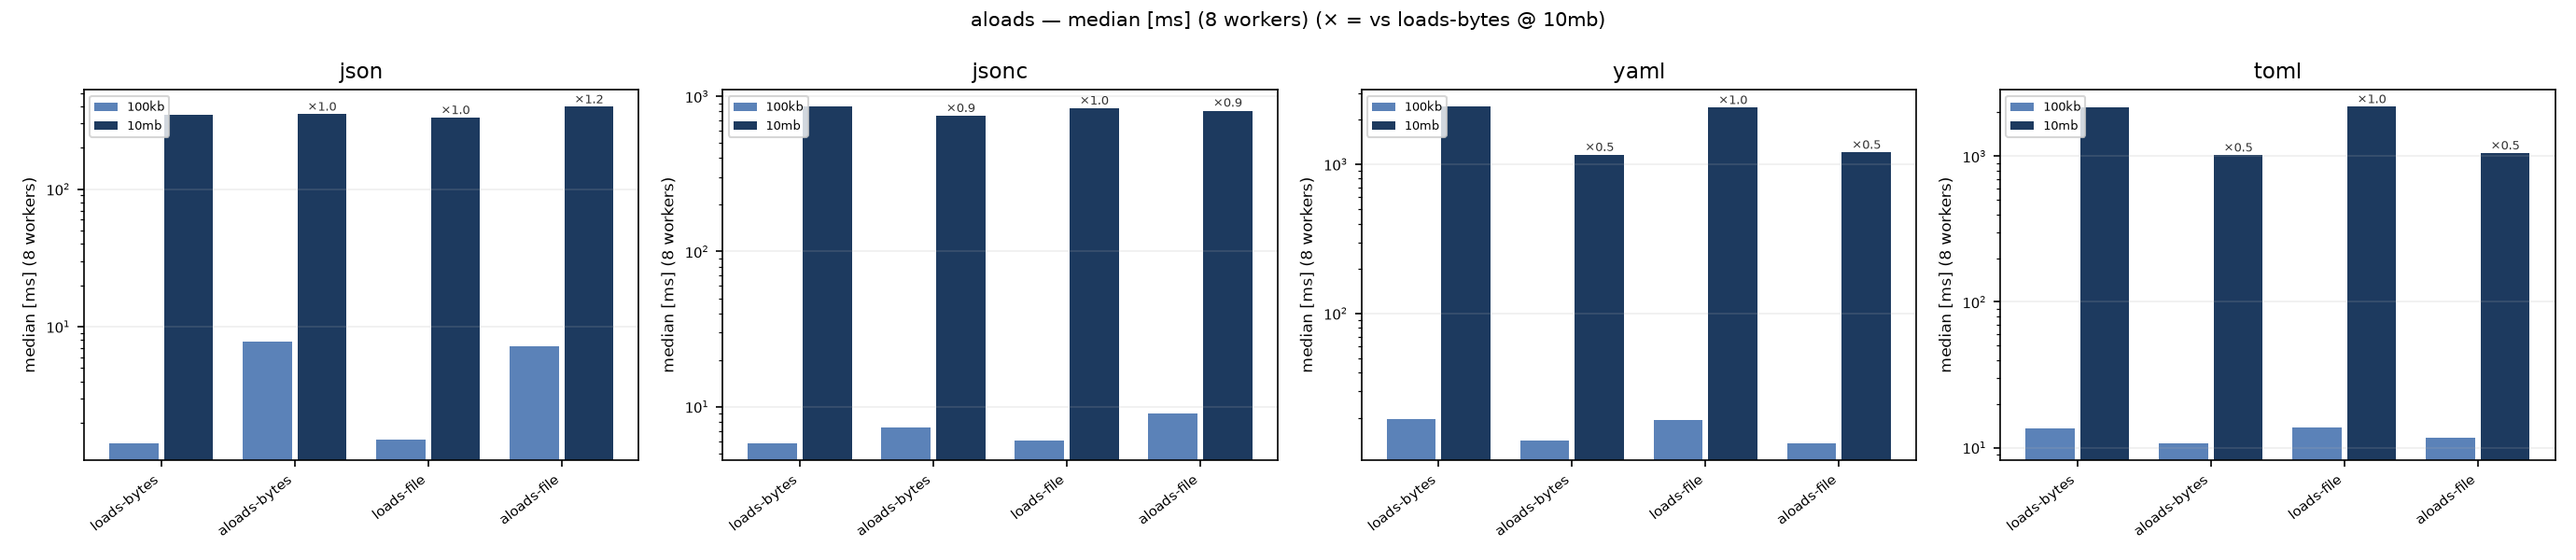
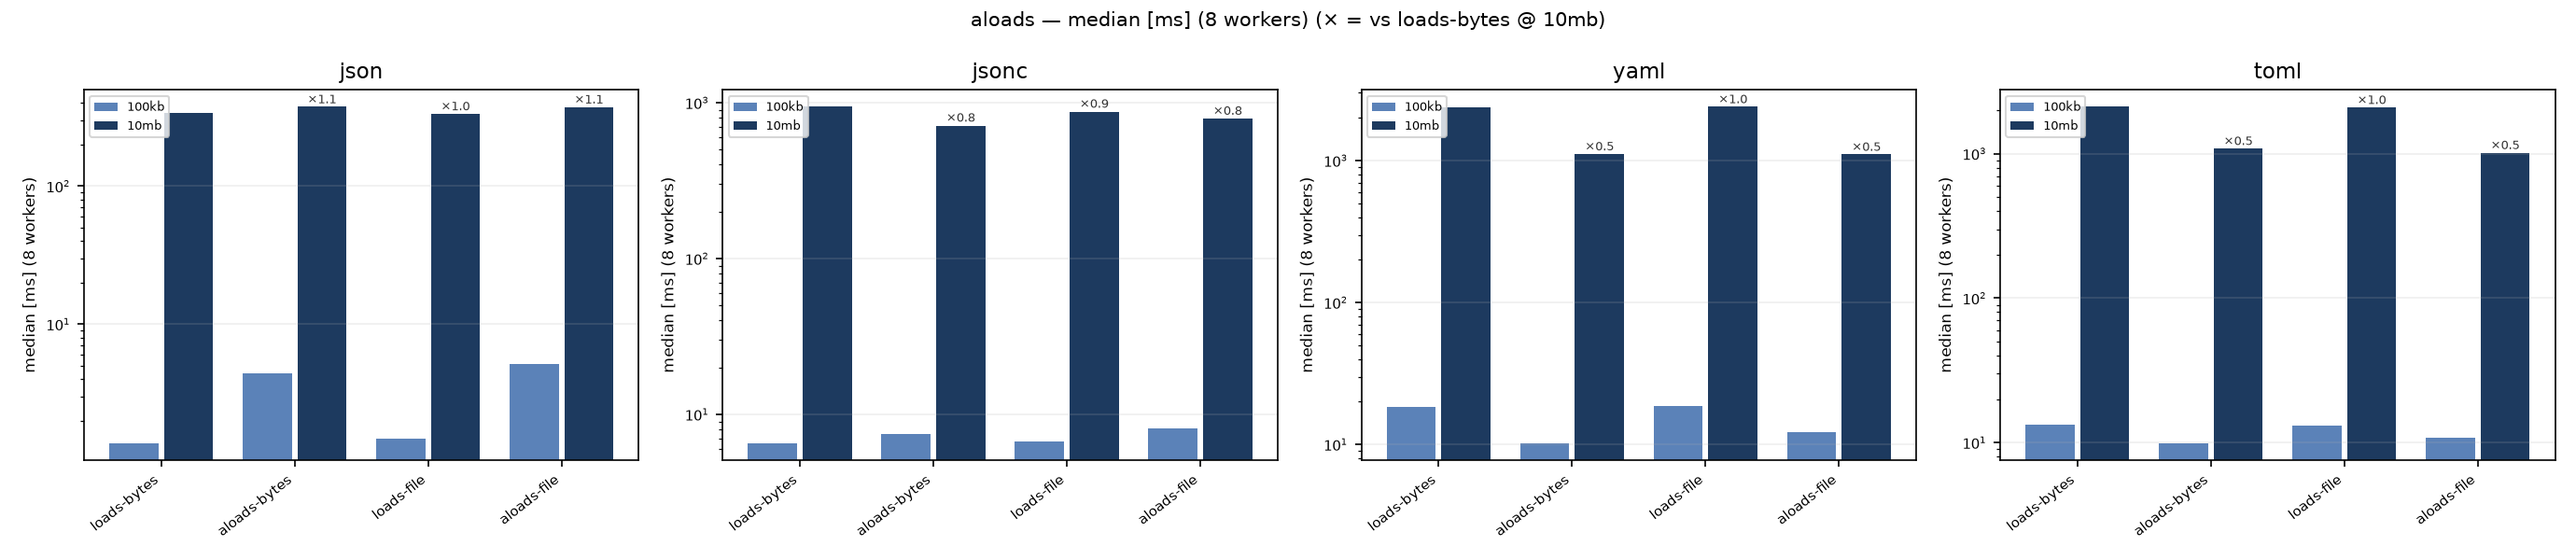
feat(release): changelog automation, hygiene tripwires and final docs (#19)
* fix(ci): restore v0.2.0 version bump lost in squash race with #17

* feat(release): CHANGELOG section and release notes generated by the bump commit

* docs: rewrite CHANGELOG with the real 0.1.0/0.2.0 history

* perf(yaml): billion-laughs pre-scan only pays for anchored documents

* docs: refresh benchmark tables and charts for the Node emitters; add launch posts

diff --git a/tests/unit/eserde/test_release.py b/tests/unit/eserde/test_release.py
@@ -1,0 +1,34 @@
+"""Release hygiene: the CHANGELOG head must track the crate version.
+
+The release workflow writes both in one commit; this is the tripwire that fires
+when the two ever drift apart (as the v0.2.0 squash race proved).
+"""
+
+from __future__ import annotations
+
+import re
+from pathlib import Path
+
+REPO = Path(__file__).resolve().parents[3]
+
+
+def _cargo_version() -> str:
+    manifest = (REPO / "Cargo.toml").read_text(encoding="utf-8")
+    found = re.search(r'^\[workspace\.package\][^[]*?^version = "([^"]+)"', manifest, re.MULTILINE | re.DOTALL)
+    assert found is not None
+    return found.group(1)
+
+
+def _changelog_head() -> str:
+    body = (REPO / "CHANGELOG.md").read_text(encoding="utf-8")
+    found = re.search(r"^## \[(\d+\.\d+\.\d+)\]", body, re.MULTILINE)
+    assert found is not None
+    return found.group(1)
+
+
+def test_changelog_head_matches_cargo_version() -> None:
+    assert _changelog_head() == _cargo_version()
+
+
+def test_changelog_is_not_stale() -> None:
+    assert "release-plz" not in (REPO / "CHANGELOG.md").read_text(encoding="utf-8").lower()

diff --git a/crates/native/src/yaml.rs b/crates/native/src/yaml.rs
@@ -76,7 +76,9 @@ fn add(frames: &mut [(usize, u64)], size: u64) -> Result<(), String> {
 
 fn decode(input: &str) -> Result<Node, String> {
     let input = input.trim_start_matches('\u{feff}');
-    check_expansion(input)?;
+    if input.contains('&') {
+        check_expansion(input)?;
+    }
     let mut docs = Yaml::load_from_str(input).map_err(|exc| exc.to_string())?;
     if docs.len() != 1 {
         return Err(format!(

diff --git a/docs/substack.md b/docs/substack.md
@@ -1,0 +1,73 @@
+# e-serde: a config loader that takes typing, speed and your machine seriously
+
+> Copy-paste ready for Substack. Links: repo → https://github.com/damvolkov/e-serde · docs → https://damvolkov.github.io/e-serde/
+
+---
+
+Every few months I catch myself rebuilding the same wheel: read a YAML here, a TOML there, an old INI nobody dares touch, validate it into a model, and ship. The Python ecosystem has all the pieces — `msgspec`, `orjson`, `tomllib`, `PyYAML`, `configparser` — but it has never had a **single door**. Five APIs, five failure modes, five ways to silently corrupt the same tree depending on which library you happened to install first.
+
+So I built the door. It's called **e-serde** — part of my `e-` (eager) stack — and it's now public:
+
+- **Repo:** https://github.com/damvolkov/e-serde
+- **Docs:** https://damvolkov.github.io/e-serde/
+
+## What it is
+
+Six functions with `json`-module manners — `loads`/`dumps`/`load`/`dump` plus async twins — that decode JSON, JSONC, YAML, TOML and INI into plain Python or **straight into a frozen `msgspec` model**. One wheel. Under the hood: Rust for YAML (saphyr), TOML (toml-rs), JSONC (Deno's jsonc-parser), INI (rust-ini), C for JSON (msgspec). Zero runtime dependencies beyond msgspec itself.
+
+```python
+import eserde
+
+cfg = eserde.loads(Path("config.toml"))  # format from the extension, no ceremony
+
+
+class Server(msgspec.Struct, frozen=True):
+    host: str
+    port: int
+
+
+srv = eserde.loads(Path("prod.yaml"), type=Server)  # decode in Rust, validate in C
+```
+
+The async twins move both I/O **and** parsing off the event loop. Because the Rust codecs release the GIL, decoding parallelizes across cores: a fan-out of 10 MB YAML runs ~2× faster than the same work done serially. The JSON path — msgspec's C decoder holding the GIL — stays flat, and we say so in the docs. No chart dodging.
+
+## What the numbers say
+
+Median decode of a 100 KB config, CPython 3.14, release build:
+
+| Format | e-serde | nearest rival | margin |
+| --- | --- | --- | --- |
+| JSON | 0.17 ms | orjson 0.16 ms | tie by construction — we *are* msgspec |
+| YAML | 2.2 ms | PyYAML (C) 11.9 ms | 5.3× |
+| TOML | 1.6 ms | rtoml 2.3 ms | 1.4× |
+| INI | 1.9 ms | configparser 19 ms | 10× |
+| JSONC | 0.7 ms | **pyjson5 0.4 ms** | we're behind, and it's in the README |
+
+That last row matters. A benchmark suite you cannot lose with is a brochure, not an engineering tool. e-serde ships its rival matrix — twelve competitors, parametrized, with charts you can regenerate with `make bench`.
+
+## The philosophy (the part that actually shaped the code)
+
+**The contract over the convenience.** Every format publishes what it supports — YAML 1.2 core + merge keys, TOML v1.1, RFC 8259 — as machine-readable claims (`eserde.STANDARDS`) that the test suite executes against the live codecs. When a dependency bump tried to sneak a YAML regression past us (an engine that resolved empty nodes to `""` instead of `null`), CI went red on the exact cell, and the version got pinned with a comment. Silent drift is the failure mode of config libraries. We made it structurally impossible.
+
+**Wrong is wrong, loudly.** Non-finite floats round-trip exactly in YAML and TOML; JSON maps them to `null` because JSON has no other honest option, and we document that too. A 200-digit integer stays exact or the library refuses; it will never hand you `1e+200` pretending it's the same number. Billion-laughs YAML bombs get rejected by an expansion budget in milliseconds instead of eating the machine's RAM. A lone surrogate raises `DumpError`, not a raw `UnicodeEncodeError`.
+
+**Interop, not rivalry.** `eserde.compat` is a drop-in for anything that duck-types `json.dumps`; `type=` validates pydantic and attrs models; per-call `default=`/`encoders=`/`dec_hook=` hooks mean your exotic types never need a monkey-patch. We're not asking you to replace msgspec or pydantic — we're the I/O layer they didn't have.
+
+**Built on open source, and honest about it.** The codecs are the ecosystem's own: saphyr, toml-rs, jsonc-parser, msgspec. We wrap the best instead of reinventing worse — and every engine version is pinned, tested and published with it.
+
+## Built with local open-source models only
+
+The whole project — code, tests, docs, benchmarks — was produced with **local, open-weight models running on local hardware**. No cloud API, no telemetry, no per-token invoice. The stack I build (speech runtimes, agents, this serde layer) runs on my machine, trained by the community, auditable by anyone. I consider that a feature with a moral dimension: the tool that serializes your config shouldn't need to phone home, and neither should the hands that wrote it.
+
+## Get it
+
+```bash
+uv add e-serde        # or: pip install e-serde
+```
+
+Wheels for Linux (x86_64/aarch64), macOS (both) and Windows, CPython 3.14.
+
+- Repo: https://github.com/damvolkov/e-serde
+- Docs (per-format contracts, limits, examples): https://damvolkov.github.io/e-serde/
+
+Issues and uncomfortable critiques welcome. Agreement must be earned.

diff --git a/README.md b/README.md
@@ -55,9 +55,10 @@ class Server(msgspec.Struct, frozen=True):
     host: str
     port: int
 
-srv = eserde.loads(src, format=Format.JSON, type=Server)              # Server(host='0.0.0.0', port=8080)
-srv = eserde.loads(ini, format=Format.INI, type=Server, strict=False) # "8080" → 8080
-net = eserde.loads(src, type=Net, dec_hook=lambda t, v: t(v))         # custom fields inside type=
+
+srv = eserde.loads(src, format=Format.JSON, type=Server)  # Server(host='0.0.0.0', port=8080)
+srv = eserde.loads(ini, format=Format.INI, type=Server, strict=False)  # "8080" → 8080
+net = eserde.loads(src, type=Net, dec_hook=lambda t, v: t(v))  # custom fields inside type=
 ```
 
 | kwarg | effect |
@@ -78,8 +79,9 @@ raw = eserde.dumps({"name": "demian", "n": 42}, format=Format.YAML)
 
 ```python
 from fractions import Fraction
+
 eserde.dumps({"f": Fraction(1, 2)}, format=Format.JSON, encoders={Fraction: str})  # b'{"f":"1/2"}'
-eserde.dumps({"f": Fraction(1, 2)}, format=Format.JSON, default=float)             # b'{"f":0.5}'
+eserde.dumps({"f": Fraction(1, 2)}, format=Format.JSON, default=float)  # b'{"f":0.5}'
 ```
 
 Every input is normalized through the Jsonable encoder first (datetime → ISO,
@@ -95,12 +97,12 @@ Every input is normalized through the Jsonable encoder first (datetime → ISO,
 ### load / dump — files
 
 ```python
-cfg = eserde.load(Path("config.toml"))              # format from the .toml suffix
+cfg = eserde.load(Path("config.toml"))  # format from the .toml suffix
 
 with open("app.json", "rb") as fh:
-    data = eserde.load(fh, format=Format.JSON)      # an open handle needs the format
+    data = eserde.load(fh, format=Format.JSON)  # an open handle needs the format
 
-eserde.dump(cfg, Path("out.jsonc"))                 # writes straight to disk → None
+eserde.dump(cfg, Path("out.jsonc"))  # writes straight to disk → None
 ```
 
 Same kwargs as `loads` / `dumps`.
@@ -125,8 +127,9 @@ e-serde cannot share faithfully delegate to the stdlib — slower, never a surpr
 
 ```python
 from eserde import compat
-compat.dumps({"a": 1}, ensure_ascii=False)       # '{"a":1}'   native compact utf-8
-compat.dumps({"a": 1})                           # byte-faithful to stdlib json
+
+compat.dumps({"a": 1}, ensure_ascii=False)  # '{"a":1}'   native compact utf-8
+compat.dumps({"a": 1})  # byte-faithful to stdlib json
 compat.loads('{"a": 1.5}', parse_float=Decimal)  # delegated to stdlib, never guessed
 ```
 
@@ -160,11 +163,11 @@ Median decode of a 100 KB config on CPython 3.14 (release build). Regenerate wit
 
 | Format | e-serde | nearest rival | margin |
 | --- | --- | --- | --- |
-| JSON | 0.17 ms | orjson 0.16 ms | ≈ tie — same decoder (msgspec) |
-| YAML | 2.24 ms | pyyaml C 11.9 ms | 5.3× — ruamel 66× |
-| TOML | 1.64 ms | rtoml 2.27 ms | 1.4× — tomlkit 42× |
-| JSONC | 0.66 ms | pyjson5 0.39 ms | the one format behind (×0.6) |
-| INI | 1.87 ms | configparser 19.3 ms | 10× |
+| JSON | 0.17 ms | orjson 0.17 ms | ≈ tie — same decoder (msgspec) |
+| YAML | 2.20 ms | pyyaml C 12–16 ms | ≈6× — ruamel 66× |
+| TOML | 1.53 ms | rtoml 2.3–2.5 ms | 1.5× — tomlkit 42× |
+| JSONC | 0.79 ms | pyjson5 0.39 ms | the one format behind (×0.5) |
+| INI | 2.00 ms | configparser 22 ms | 11× |
 
 Because the Rust codecs release the GIL, `aloads` parallelizes decode: on 10 MB YAML/TOML the
 async fan-out is ~2× faster than serial sync (JSON stays flat — msgspec's C decoder holds the
@@ -211,8 +214,10 @@ make bench               # rival benchmark matrix → assets/benchmarks/*.png
 
 Interop landed: `eserde` is a custom encoder for any framework that ducks-types `json`
 (`eserde.compat`), validates `pydantic`/`attrs` models through `type=`, and accepts
-per-call `default=`/`encoders=`/`dec_hook=` hooks. Next: concurrency stress at scale —
-thousands of simultaneous loads, GIL-detachment behavior and the thread-pool ceiling.
+per-call `default=`/`encoders=`/`dec_hook=` hooks. Shipped alongside a comparative
+concurrency stress harness (`make stress`). Next: broaden interop — msgspec/pydantic
+request-body and FastAPI response pipelines — and CI-gated regression against rival
+decoders under sustained load.
 
 ## License
 

diff --git a/CHANGELOG.md b/CHANGELOG.md
@@ -3,10 +3,52 @@
 All notable changes to e-serde are documented here. The format follows
 [Keep a Changelog](https://keepachangelog.com/en/1.1.0/) and the project
 adheres to [Semantic Versioning](https://semver.org/spec/v2.0.0.html).
-Versions are tagged as `vX.Y.Z`; after the first automated release this file is
-maintained by release-plz from conventional commits.
 
-## [0.1.0] — 2026-09-16
+This file is maintained automatically: the release workflow appends the notes of
+every tagged version, and a CI test fails if the head of this file ever disagrees
+with `Cargo.toml`.
+
+## [0.2.0] — 2026-09-23
+
+### Added
+
+- Custom-encoder contract: per-call `default=` and `encoders=` on
+  `dumps/dump/adumps/adump`, `object_hook=`/`dec_hook=` on the decode side
+  (json/orjson/msgspec semantics, keyword-only).
+- `type=` validates pydantic models and generics (`list[M]`, `dict[str, M]`)
+  through a lazily imported, cached `TypeAdapter`; violations surface as `LoadError`.
+- `eserde.compat`: drop-in `json.dumps`/`json.loads` surface for frameworks that
+  duck-type the stdlib module — byte-faithful by default, native compact utf-8
+  fast path on `ensure_ascii=False`.
+- `eserde.STANDARDS`: machine-readable per-format spec contract (spec, pinned
+  engine + version, capability set) with the `test_standards.py` matrix that
+  executes every claim both ways and cross-checks engine versions against the
+  lockfiles.
+- Comparative concurrency stress sweep (`make stress`): throughput, p99 and peak
+  RSS versus worker count, with per-format charts and report under
+  `assets/benchmarks/`.
+- Docs: per-format pages generated from the contract; modular `Formats` section.
+
+### Fixed
+
+- Lossless `Node` tree replaces the `serde_json::Value` intermediate across the
+  Rust codecs: big integers and `inf`/`nan` round-trip exactly where the format
+  allows (TOML raises beyond its 64-bit range; JSON maps non-finites to `null`).
+- Duplicate INI sections merge instead of silently dropping earlier keys.
+- YAML merge keys (`<<`) resolve; explicit keys win.
+- YAML and INI tolerate a leading UTF-8 BOM (INI previously rejected the file;
+  YAML folded the BOM into the first key).
+- Lone surrogates on encode raise `DumpError` instead of escaping the hierarchy.
+- Empty JSONC documents are rejected.
+
+### Known limitations
+
+- YAML loads integers beyond 64-bit as `float` (engine resolves them that way);
+  `dumps` always writes exact digits.
+- saphyr pinned to 0.0.12: 0.1.0 regressed spec null semantics (empty node →
+  `""`); the STANDARDS test-suite re-verifies on any future bump.
+
+## [0.1.0] — 2026-09-17
 
 Initial release.
 
@@ -21,6 +63,4 @@ Initial release.
   enables coercion.
 - Jsonable dump encoder (datetime → ISO, Enum → value, bytes → base64).
 - Pluggable `CodecRegistry`; `e-serde` CLI listing active backends.
-- Rival benchmark matrix (orjson, ujson, PyYAML, ruamel, rtoml, tomllib,
-  tomlkit, pyjson5, json5, configparser, msgspec, pydantic) with matplotlib
-  report.
+- Rival benchmark matrix with matplotlib report.

diff --git a/docs/benchmarks.md b/docs/benchmarks.md
@@ -10,17 +10,19 @@ same bytes every rival parses. The rivals are each library's *own* recommended A
 
 ![loads](assets/benchmarks/loads.png)
 
-| Format | e-serde | orjson     | msgspec    | pyyaml(C)  | rtoml      | configparser |
-| ------ | ------- | ---------- | ---------- | ---------- | ---------- | ------------ |
-| JSON   | 0.17 ms | 0.16 ms    | 0.17 ms    | —          | —          | —            |
-| YAML   | 2.24 ms | —          | —          | 11.9 ms    | —          | —            |
-| TOML   | 1.64 ms | —          | —          | —          | 2.27 ms    | —            |
-| INI    | 1.87 ms | —          | —          | —          | —          | 19.3 ms      |
+| Format | e-serde | orjson     | msgspec    | pyyaml(C) | rtoml      | configparser |
+| ------ | ------- | ---------- | ---------- | --------- | ---------- | ------------ |
+| JSON   | 0.17 ms | 0.17 ms    | 0.17 ms    | —         | —          | —            |
+| YAML   | 2.20 ms | —          | —          | 12.6 ms   | —          | —            |
+| TOML   | 1.53 ms | —          | —          | —         | 2.29 ms    | —            |
+| INI    | 2.00 ms | —          | —          | —         | —          | 22.3 ms      |
 
 - **JSON** — a tie by construction: e-serde *is* msgspec here. The C decoder holds the GIL.
-- **YAML** — 5.3× faster than PyYAML's C loader, 66× faster than ruamel.
+- **YAML** — ≈6× faster than PyYAML's C loader, 66× faster than ruamel. The billion-laughs
+  pre-scan runs only when the input contains `&`, so unanchored docs pay nothing for it.
 - **TOML** — ahead of rtoml, its nearest Rust rival, and 40×+ over the pure-Python parsers.
-- **JSONC** — the one format e-serde does not lead: `pyjson5` (Rust, dedicated) beats it ~×0.6.
+- **JSONC** — the one format e-serde does not lead: `pyjson5` (Rust, dedicated) beats it
+  ~×0.5. The gap is the price of exact big integers and raw number tokens (0.2.1 onward).
 
 ## Validate (`type=`)
 

diff --git a/docs/linkedin.md b/docs/linkedin.md
@@ -1,0 +1,36 @@
+# LinkedIn post — copy-paste ready
+
+> Paste as-is. First comment (optional): the per-format contract docs.
+
+---
+
+🚀 Just released: e-serde — fast, type-safe config loading for Python, on native Rust codecs.
+
+Five formats, one door: JSON · JSONC · YAML · TOML · INI
+Six verbs with `json`-module manners: loads / dumps / load / dump + async twins
+
+import eserde
+cfg = eserde.loads(Path("config.toml"))
+srv = eserde.loads(Path("prod.yaml"), type=Server)  # decode in Rust, validate with msgspec
+
+⚡ Numbers (100 KB, CPython 3.14):
+• YAML 5.3× faster than PyYAML-C
+• TOML 1.4× faster than rtoml
+• INI 10× faster than configparser
+• JSONC: pyjson5 beats us ×0.6 — it's in the README, no chart dodging 📊
+
+🧠 What I'm proudest of:
+→ STANDARDS: every format's spec claims (YAML 1.2 core, TOML v1.1, RFC 8259) live in code and are executed by the test suite. An engine bump that broke null semantics went red on CI the same day.
+→ Billion-laughs YAML bombs rejected in ~0 ms instead of eating your RAM.
+→ Concurrency that scales: Rust codecs release the GIL → ~2× on 10 MB YAML across cores, while GIL-bound rivals flat-line at ×1.0.
+→ Drop-in interop: json-compatible façade, pydantic/attrs validation, per-call encoder hooks.
+
+🔒 Built 100% with local open-weight models on local hardware. No cloud APIs, no telemetry — the tool that serializes your config shouldn't phone home, and neither should the hands that wrote it.
+
+🐍 Wheels on PyPI for Linux / macOS / Windows (cp314):
+📦 Repo: https://github.com/damvolkov/e-serde
+📖 Docs: https://damvolkov.github.io/e-serde/
+
+Feedback and uncomfortable critiques welcome — agreement must be earned. 🤝
+
+#python #rust #opensource #serialization #performance #localai #config #msgspec

diff --git a/docs/installation.md b/docs/installation.md
@@ -19,7 +19,8 @@ Windows — no compiler, no Cargo required.
 
 ```python
 import eserde
-print(eserde.__version__)     # e.g. 0.1.0
+
+print(eserde.__version__)  # e.g. 0.2.0
 ```
 
 The `e-serde` console script lists the active codecs and the format each one uses:
